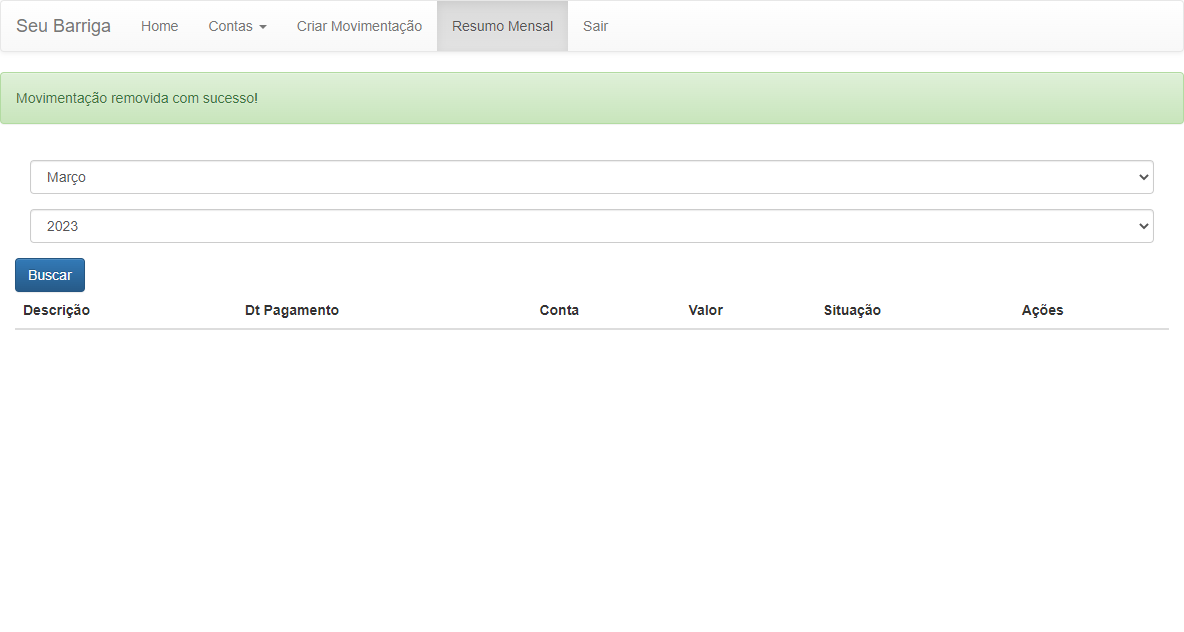
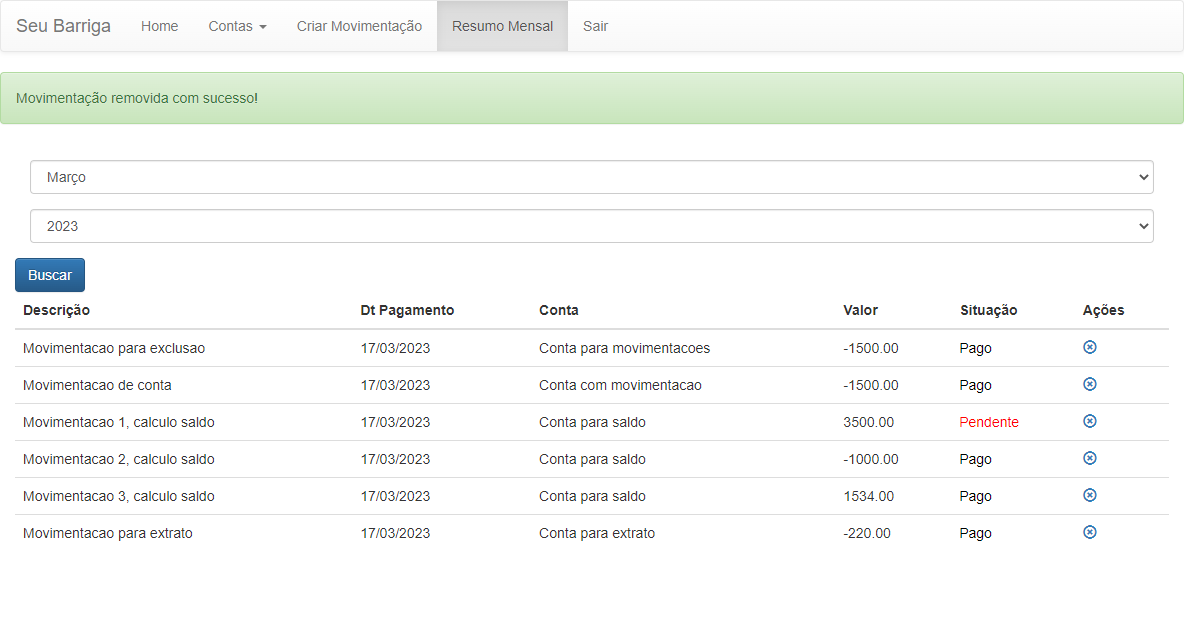
adicionando configurações para saucelabs

diff --git a/src/main/java/br/ce/wcaquino/core/DriverFactory.java b/src/main/java/br/ce/wcaquino/core/DriverFactory.java
@@ -1,10 +1,17 @@
 package br.ce.wcaquino.core;
 
+import java.net.MalformedURLException;
+import java.net.URL;
+
 import org.openqa.selenium.Dimension;
 import org.openqa.selenium.WebDriver;
 import org.openqa.selenium.chrome.ChromeDriver;
 import org.openqa.selenium.edge.EdgeDriver;
 import org.openqa.selenium.firefox.FirefoxDriver;
+import org.openqa.selenium.remote.DesiredCapabilities;
+import org.openqa.selenium.remote.RemoteWebDriver;
+
+import br.ce.wcaquino.core.Propriedades.TipoExecucao;
 
 public class DriverFactory {
 
@@ -14,20 +21,72 @@ public class DriverFactory {
 	}
 
 	public static WebDriver getDriver() {
-		if (driver == null) {
-			switch (Propriedades.browser) {
-			case FIREFOX:
-				driver = new FirefoxDriver();
-				break;
-			case CHROME:
-				driver = new ChromeDriver();
-				break;
-			case EDGE:
-				driver = new EdgeDriver();
-				break;
+		
+		if(Propriedades.TIPO_EXECUCAO == TipoExecucao.LOCAL) {
+			if (driver == null) {
+				switch (Propriedades.BROWSER) {
+				case FIREFOX:
+					driver = new FirefoxDriver();
+					break;
+				case CHROME:
+					driver = new ChromeDriver();
+					break;
+				case EDGE:
+					driver = new EdgeDriver();
+					break;
+				}
 			}
-			driver.manage().window().setSize(new Dimension(1200, 765));
 		}
+			if(Propriedades.TIPO_EXECUCAO == TipoExecucao.GRID) {
+				DesiredCapabilities cap = null;
+				
+				switch (Propriedades.BROWSER) {
+				case FIREFOX:
+					cap = DesiredCapabilities.firefox();
+					break;
+				case CHROME:
+					cap = DesiredCapabilities.chrome();
+					break;
+				case EDGE:
+					cap = DesiredCapabilities.edge();
+					break;
+				}
+				
+				try {
+					// url da maq no GRID
+					driver = new RemoteWebDriver(new URL("http://192.168.0.184:4444/wd/hub"), cap);
+				} catch (MalformedURLException e) {
+					System.out.println("Falha na conexão com o GRID");
+					e.printStackTrace();
+				}
+			}
+			
+			if(Propriedades.TIPO_EXECUCAO == TipoExecucao.NUVEM) {
+				DesiredCapabilities cap = null;
+				
+				switch (Propriedades.BROWSER) {
+				case FIREFOX:
+					cap = DesiredCapabilities.firefox();
+					break;
+				case CHROME:
+					cap = DesiredCapabilities.chrome();
+					break;
+				case EDGE:
+					cap = DesiredCapabilities.edge();
+					break;
+				}
+				
+				try {
+					
+					driver = new RemoteWebDriver(new 
+							URL("https://oauth-talesernani-f71eb:05fee576-a343-4307-8125-ef331fc9d5e6@ondemand.us-west-1.saucelabs.com:443/wd/hub"), cap);
+				} catch (MalformedURLException e) {
+					System.out.println("Falha na conexão com a NUVEM");
+					e.printStackTrace();
+				}
+			}
+
+		driver.manage().window().setSize(new Dimension(1200, 765));
 		return driver;
 	}
 

diff --git a/src/main/java/br/ce/wcaquino/tests/ResumoTest.java b/src/main/java/br/ce/wcaquino/tests/ResumoTest.java
@@ -1,9 +1,13 @@
 package br.ce.wcaquino.tests;
 
+import java.util.List;
+
 import org.junit.Assert;
 import org.junit.FixMethodOrder;
 import org.junit.Test;
 import org.junit.runners.MethodSorters;
+import org.openqa.selenium.By;
+import org.openqa.selenium.WebElement;
 
 import br.ce.wcaquino.core.BaseTest;
 import br.ce.wcaquino.core.DriverFactory;
@@ -27,6 +31,31 @@ public class ResumoTest extends BaseTest {
 	public void test2_ResumoMensal() {
 		menuPage.acessarTelaResumo();
 		Assert.assertEquals("Seu Barriga - Extrato", DriverFactory.getDriver().getTitle());
+	}
+	
+//	@Test(expected=NoSuchElementException.class)
+	@Test
+	public void test3_ResumoMensalVazio(){
+		menuPage.acessarTelaResumo();
+		
+		Assert.assertEquals("Seu Barriga - Extrato", DriverFactory.getDriver().getTitle());
+		
+//		DriverFactory.getDriver().findElement(By.xpath("//*[@id='tabelaExtrato']/tbody/tr"));
+		
+//		try{
+//			DriverFactory.getDriver().findElement(By.xpath("//*[@id='tabelaExtrato']/tbody/tr"));
+//			Assert.fail();
+//		} catch (NoSuchElementException e) {
+//			
+//		}
+		
+		resumoPage.selecionarAno("2016");
+		resumoPage.buscar();
+		
+		List<WebElement> elementosEncontrados = 
+				DriverFactory.getDriver().findElements(By.xpath("//*[@id='tabelaExtrato']/tbody/tr"));
+		Assert.assertEquals(0, elementosEncontrados.size());
+		
 	}
 
 }

diff --git a/src/main/java/br/ce/wcaquino/core/Propriedades.java b/src/main/java/br/ce/wcaquino/core/Propriedades.java
@@ -2,14 +2,25 @@ package br.ce.wcaquino.core;
 
 public class Propriedades {
 
-	public static boolean FECHAR_BROWSER = false; // se for true fecha o browser a cada teste 
+	public static boolean FECHAR_BROWSER = true; // se for true fecha o browser a cada teste 
 	
-	public static Browsers browser = Browsers.CHROME; // padrão será 
+	public static Browsers BROWSER = Browsers.CHROME; // padrão será 
+	
+	public static TipoExecucao TIPO_EXECUCAO = TipoExecucao.LOCAL; //obs alterar quando for rodar os testes na NUVEM OU GRID
+	// https://app.saucelabs.com/dashboard/tests
+	
+	// pegar as configurações para efetuar os testes em diferentes plataformas etc
+	// https://saucelabs.com/products/platform-configurator#/ 
+	
 	
 	public enum Browsers {
 		CHROME, 
 		FIREFOX, 
 		EDGE
+	}
+	
+	public enum TipoExecucao {
+		LOCAL, GRID, NUVEM
 	}
 	
 }

diff --git a/src/main/java/br/ce/wcaquino/suites/SuiteGeral.java b/src/main/java/br/ce/wcaquino/suites/SuiteGeral.java
@@ -1,10 +1,12 @@
 package br.ce.wcaquino.suites;
 
+import org.junit.AfterClass;
 import org.junit.BeforeClass;
 import org.junit.runner.RunWith;
 import org.junit.runners.Suite;
 import org.junit.runners.Suite.SuiteClasses;
 
+import br.ce.wcaquino.core.DriverFactory;
 import br.ce.wcaquino.pages.LoginPage;
 import br.ce.wcaquino.tests.ContaTest;
 import br.ce.wcaquino.tests.MovimentacaoTest;
@@ -23,7 +25,6 @@ import br.ce.wcaquino.tests.SaldoTest;
 	RemoverContaTest.class
 })
 public class SuiteGeral {
-	// ace
 	private static LoginPage page = new LoginPage();
 	
 	@BeforeClass
@@ -31,5 +32,12 @@ public class SuiteGeral {
 		page.acessarTelaInicial();
 		page.logar("talesernani@gmail.com", "th@les123");
 		// page.entrar();
+		page.resetar();
 	}
+	
+	@AfterClass
+	public static void finaliza(){
+		DriverFactory.killDriver();
+	}
+	
 }

diff --git a/src/main/java/br/ce/wcaquino/tests/ContaTest.java b/src/main/java/br/ce/wcaquino/tests/ContaTest.java
@@ -26,8 +26,8 @@ public class ContaTest extends BaseTest {
 	@Test
 	public void test2_AlterarConta(){
 		menuPage.acessarTelaListarConta();
-		contasPage.clicarAlterarConta("Conta do Teste");
-		contasPage.setNome("Conta do Teste 2023");
+		contasPage.clicarAlterarConta("Conta para alterar");
+		contasPage.setNome("Conta alterada");
 		contasPage.salvar();
 		Assert.assertEquals("Conta alterada com sucesso!", contasPage.obterMensagemSucesso());
 	}
@@ -35,7 +35,7 @@ public class ContaTest extends BaseTest {
 	@Test
 	public void test3_InserirContaMesmoNome() {
 		menuPage.acessarTelaInserirConta();
-		contasPage.setNome("Conta do Teste 2023");
+		contasPage.setNome("Conta mesmo nome");
 		contasPage.salvar();
 		Assert.assertEquals("Já existe uma conta com esse nome!", contasPage.obterMensagemErro());
 	}	

diff --git a/src/main/java/br/ce/wcaquino/tests/MovimentacaoTest.java b/src/main/java/br/ce/wcaquino/tests/MovimentacaoTest.java
@@ -30,7 +30,7 @@ public class MovimentacaoTest extends BaseTest {
 		movPage.setDescricao("Movimentação do Teste");
 		movPage.setInteressado("Interessado Qualquer");
 		movPage.setValor("500");
-		movPage.setConta("Conta do Teste 2023");
+		movPage.setConta("Conta para movimentacoes");
 		movPage.setStatusPago();
 		movPage.salvar();
 		
@@ -63,7 +63,7 @@ public class MovimentacaoTest extends BaseTest {
 		movPage.setDescricao("Movimentação do Teste");
 		movPage.setInteressado("Interessado Qualquer");
 		movPage.setValor("500");
-		movPage.setConta("Conta do Teste 2023");
+		movPage.setConta("Conta para movimentacoes");
 		movPage.setStatusPago();
 		movPage.salvar();
 		

diff --git a/src/main/java/br/ce/wcaquino/tests/RemoverContaTest.java b/src/main/java/br/ce/wcaquino/tests/RemoverContaTest.java
@@ -13,9 +13,9 @@ public class RemoverContaTest extends BaseTest {
 	private ContasPage contasPage = new ContasPage();
 	
 	@Test
-	public void testRemoverConta() {
+	public void test1_RemoverConta() {
 		menuPage.acessarTelaListarConta();
-		contasPage.clicarExcluirConta("Conta do Teste 2023");
+		contasPage.clicarExcluirConta("Conta alterada");
 		Assert.assertEquals("Conta removida com sucesso!", contasPage.obterMensagemSucesso());
 	}
 }

diff --git a/src/main/java/br/ce/wcaquino/tests/RemoverMovimentacaoContaTest.java b/src/main/java/br/ce/wcaquino/tests/RemoverMovimentacaoContaTest.java
@@ -15,7 +15,7 @@ public class RemoverMovimentacaoContaTest extends BaseTest {
 	@Test
 	public void test1_ExcluirConta() {
 		menuPage.acessarTelaListarConta();
-		contasPage.clicarExcluirConta("Conta do Teste 2023");
+		contasPage.clicarExcluirConta("Conta com movimentacoes");
 		Assert.assertEquals("Conta em uso na movimentações", contasPage.obterMensagemErro());
 	}
 }

diff --git a/src/main/java/br/ce/wcaquino/core/BaseTest.java b/src/main/java/br/ce/wcaquino/core/BaseTest.java
@@ -20,14 +20,14 @@ public class BaseTest {
 	@Rule
 	public TestName testName = new TestName(); 
 
-	/*
+	
 	@Before
 	public void inicializa() {
 		page.acessarTelaInicial();
 		page.logar("talesernani@gmail.com", "th@les123");
 		// page.entrar();
 	}
-	 */
+	
 	
 	@After
 	public void finalizar() throws IOException { // Screenshot das telas

diff --git a/src/main/java/br/ce/wcaquino/pages/ResumoPage.java b/src/main/java/br/ce/wcaquino/pages/ResumoPage.java
@@ -14,4 +14,11 @@ public class ResumoPage extends BasePage {
 		return obterTexto(By.xpath("//div[@class='alert alert-success']"));
 	}
 	
+	public void selecionarAno(String ano) {
+		selecionarCombo("ano", ano);
+	}
+	
+	public void buscar() {
+		clicarBotao(By.xpath("//input[@value='Buscar']"));
+	}
 }

diff --git a/src/main/java/br/ce/wcaquino/tests/SaldoTest.java b/src/main/java/br/ce/wcaquino/tests/SaldoTest.java
@@ -12,7 +12,7 @@ public class SaldoTest extends BaseTest {
 	
 	@Test
 	public void testSaldoConta() {
-		Assert.assertEquals("500.00", homePage.obterSaldoConta("Conta do Teste 2023"));
+		Assert.assertEquals("534.00", homePage.obterSaldoConta("Conta para saldo"));
 	}
 
 }

diff --git a/src/main/java/br/ce/wcaquino/pages/LoginPage.java b/src/main/java/br/ce/wcaquino/pages/LoginPage.java
@@ -26,5 +26,9 @@ public class LoginPage extends BasePage {
 		setSenha(senha);
 		entrar();
 	}
+	
+	public void resetar() {
+		clicarLink("reset");
+	}
 
 }
